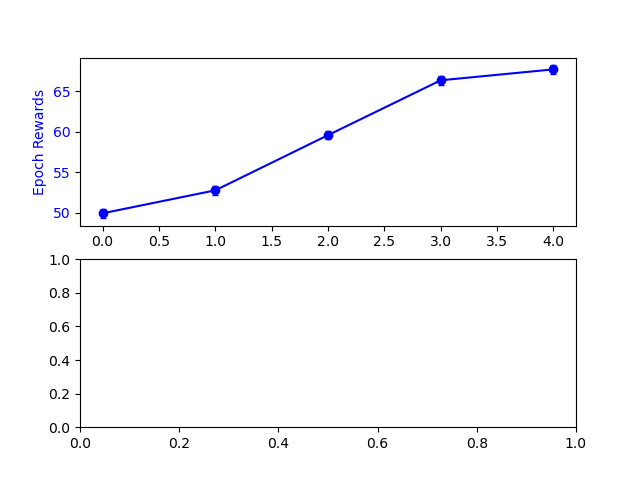
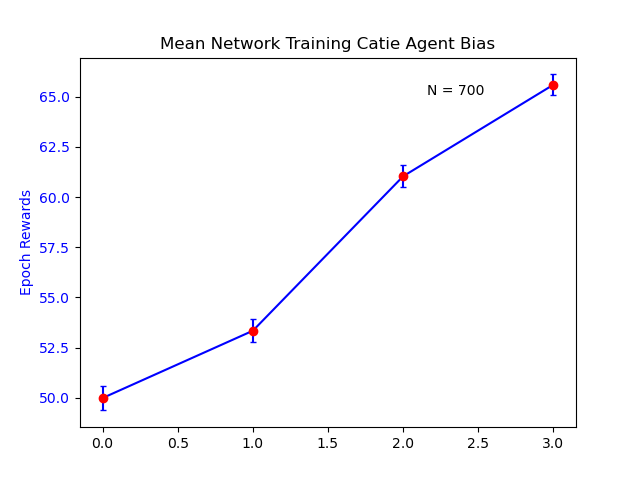
PPO implementation plotting progress

diff --git a/Reinforcment Deep Learning/Proximal Policy Optimization Algorithm/ppo.py b/Reinforcment Deep Learning/Proximal Policy Optimization Algorithm/ppo.py
@@ -209,22 +209,28 @@ class PPO:
                 batch_rtgs - the rewards to go, Shape: (number of timesteps in batch)
         """
         # The rewards-to-go (rtg) per episode per batch to return.
-        # The shape will be (num timesteps per episode)
-        batch_rtgs = []
+        # Convert batch_rewards to a PyTorch tensor
+        batch_rewards = torch.tensor(batch_rewards, dtype=torch.float)
+
+        # Initialize an empty tensor to store the rewards-to-go
+        batch_rtgs = torch.empty_like(batch_rewards)
 
         # Iterate through each episode
-        for ep_rewards in reversed(batch_rewards):
+        for i in range(batch_rewards.shape[0]):
+            ep_rewards = batch_rewards[i, :]
 
-            discounted_reward = 0  # The discounted reward so far
+            # Compute the rewards-to-go for the current episode
+            rtg = torch.empty_like(ep_rewards)
+            discounted_reward = 0
+            for j in reversed(range(ep_rewards.shape[0])):
+                discounted_reward = ep_rewards[j] + discounted_reward * self.gamma
+                rtg[j] = discounted_reward
 
-            # Iterate through all rewards in the episode. We go backwards for smoother calculation of each
-            # discounted return (think about why it would be harder starting from the beginning)
-            for rew in reversed(ep_rewards):
-                discounted_reward = rew + discounted_reward * self.gamma
-                batch_rtgs.insert(0, discounted_reward)
+            # Store the computed rewards-to-go in the batch_rtgs tensor
+            batch_rtgs[i, :] = rtg
 
-        # Convert the rewards-to-go into a tensor
-        batch_rtgs = torch.tensor(batch_rtgs, dtype=torch.float)
+        # Flatten the batch_rtgs tensor
+        batch_rtgs = batch_rtgs.flatten()
 
         return batch_rtgs
 
@@ -347,18 +353,17 @@ class PPO:
         self.network_rewards_each_epoch.append(episode_rewards.mean())
         self.network_error_each_epoch.append(np.std(episode_rewards) / np.sqrt(self.n_repetitions))
         epoch = len(self.network_rewards_each_epoch)
-        print(f"\nEpoch: {epoch}, Network mean Fitness: {self.network_rewards_each_epoch[-1]}")
-        print(f"Network Fitness error: {self.network_error_each_epoch[-1]}")
         # Update the live plot
         x = list(range(epoch))
         # Plot episode_rewards with blue color
-        figs, axes = plt.subplots(2)
-        axes[0].set_ylabel('Epoch Rewards', color='b')
-        axes[0].plot(x, self.network_rewards_each_epoch, 'b')
-        axes[0].tick_params(axis='y', labelcolor='b')
-        axes[0].errorbar(x, self.network_rewards_each_epoch, yerr=self.network_error_each_epoch,
-                         fmt='o',
-                         color='b', ecolor='b', capsize=2)
+        fig, ax = plt.subplots()
+        ax.plot(x, self.network_rewards_each_epoch, 'b', label='Epoch Rewards')
+        ax.set_ylabel('Epoch Rewards', color='b')
+        ax.tick_params(axis='y', labelcolor='b')
+        ax.errorbar(x, self.network_rewards_each_epoch, yerr=self.network_error_each_epoch,
+                    fmt='o', color='r', ecolor='b', capsize=2)
+        ax.set_title("Mean Network Training Catie Agent Bias")
+        ax.annotate(f"N = {self.n_repetitions}", xy=(0.7, 0.9), xycoords='axes fraction')
         plt.savefig("network_fitness.png")
 
     def _init_hyperparameters(self, hyperparameters):

diff --git a/Reinforcment Deep Learning/Proximal Policy Optimization Algorithm/README.md b/Reinforcment Deep Learning/Proximal Policy Optimization Algorithm/README.md
@@ -1,0 +1,1 @@
+https://github.com/ericyangyu/PPO-for-Beginners
